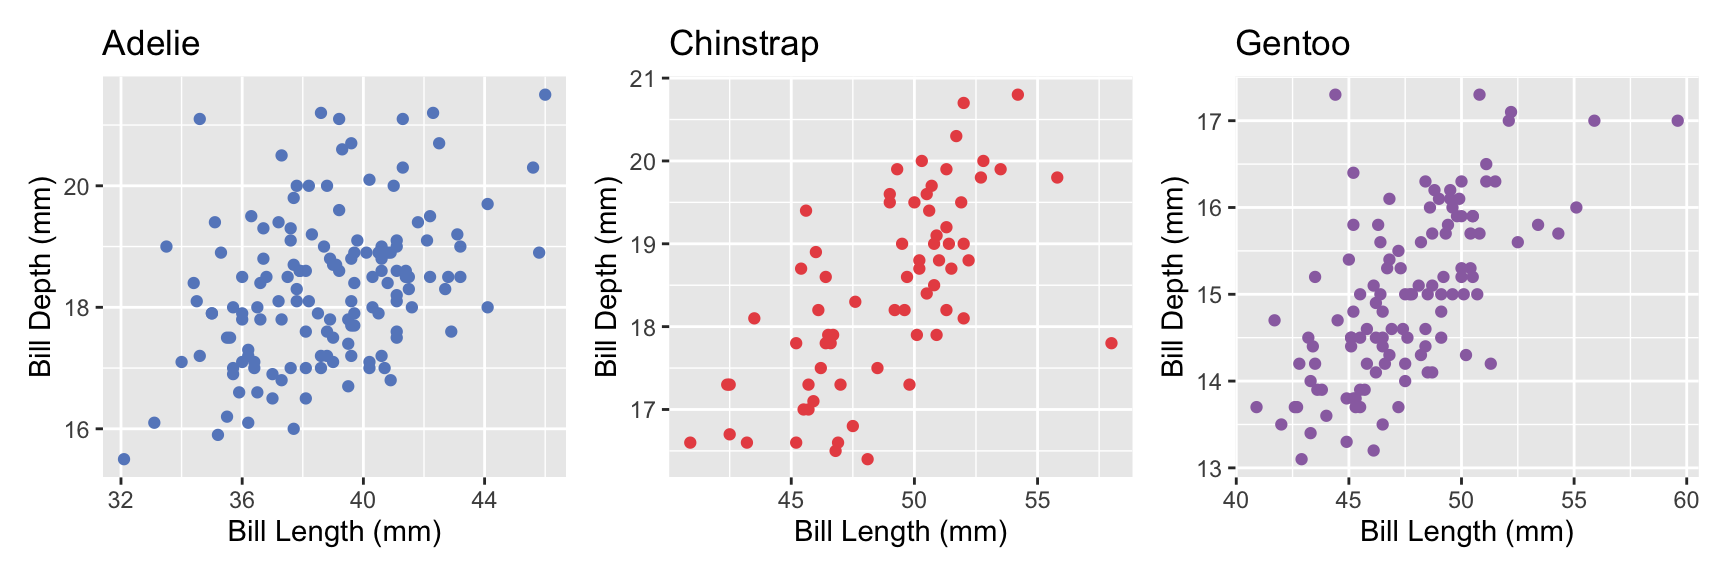
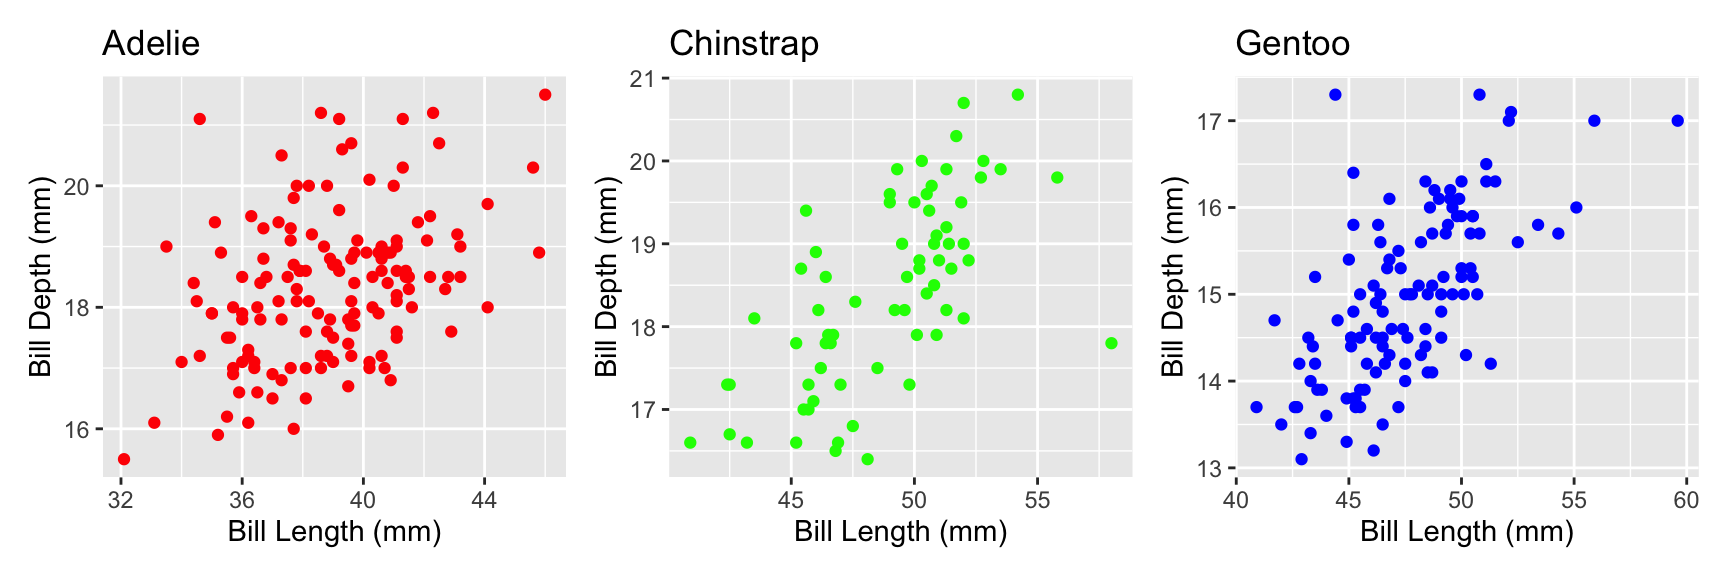
Fixed plot colors inconsistency

diff --git a/R/analysis.html b/R/analysis.html
@@ -159,7 +159,7 @@ Tip
 <div class="sourceCode cell-code" id="cb1"><pre class="sourceCode r code-with-copy"><code class="sourceCode r"><span id="cb1-1"><a href="#cb1-1" aria-hidden="true" tabindex="-1"></a> <span class="fu">getwd</span>()</span></code><button title="Copy to Clipboard" class="code-copy-button"><i class="bi"></i></button></pre></div>
 </details>
 <div class="cell-output cell-output-stdout">
-<pre><code>[1] "/Users/osinnii/Documents/R/productive-r-workflow/R"</code></pre>
+<pre><code>[1] "/Users/osinnii/Documents/Github/productive-R-workflow/R"</code></pre>
 </div>
 </div>
 <p>All source data, functions and outputs are contained within the R project and can be reproduced.</p>
@@ -307,9 +307,9 @@ Tip
 <div class="cell page-columns page-full">
 <details>
 <summary>Code</summary>
-<div class="sourceCode cell-code" id="cb13"><pre class="sourceCode r code-with-copy"><code class="sourceCode r"><span id="cb13-1"><a href="#cb13-1" aria-hidden="true" tabindex="-1"></a>p1 <span class="ot">&lt;-</span> <span class="fu">scatterplot.f</span>(data, <span class="st">"Adelie"</span>,<span class="st">"#6689c6"</span>)</span>
-<span id="cb13-2"><a href="#cb13-2" aria-hidden="true" tabindex="-1"></a>p2 <span class="ot">&lt;-</span> <span class="fu">scatterplot.f</span>(data, <span class="st">"Chinstrap"</span>,<span class="st">"#e85252"</span>)</span>
-<span id="cb13-3"><a href="#cb13-3" aria-hidden="true" tabindex="-1"></a>p3 <span class="ot">&lt;-</span> <span class="fu">scatterplot.f</span>(data, <span class="st">"Gentoo"</span>,<span class="st">"#9a6fb0"</span>)</span>
+<div class="sourceCode cell-code" id="cb13"><pre class="sourceCode r code-with-copy"><code class="sourceCode r"><span id="cb13-1"><a href="#cb13-1" aria-hidden="true" tabindex="-1"></a>p1 <span class="ot">&lt;-</span> <span class="fu">scatterplot.f</span>(data, <span class="st">"Adelie"</span>,<span class="st">"red"</span>)</span>
+<span id="cb13-2"><a href="#cb13-2" aria-hidden="true" tabindex="-1"></a>p2 <span class="ot">&lt;-</span> <span class="fu">scatterplot.f</span>(data, <span class="st">"Chinstrap"</span>,<span class="st">"green"</span>)</span>
+<span id="cb13-3"><a href="#cb13-3" aria-hidden="true" tabindex="-1"></a>p3 <span class="ot">&lt;-</span> <span class="fu">scatterplot.f</span>(data, <span class="st">"Gentoo"</span>,<span class="st">"blue"</span>)</span>
 <span id="cb13-4"><a href="#cb13-4" aria-hidden="true" tabindex="-1"></a>p1 <span class="sc">+</span> p2 <span class="sc">+</span> p3</span></code><button title="Copy to Clipboard" class="code-copy-button"><i class="bi"></i></button></pre></div>
 </details>
 <div class="cell-output-display page-columns page-full">
@@ -321,6 +321,7 @@ Tip
 </div>
 </div>
 </div>
+<p>Thanks for watching!</p>
 </section>
 </section>
 
